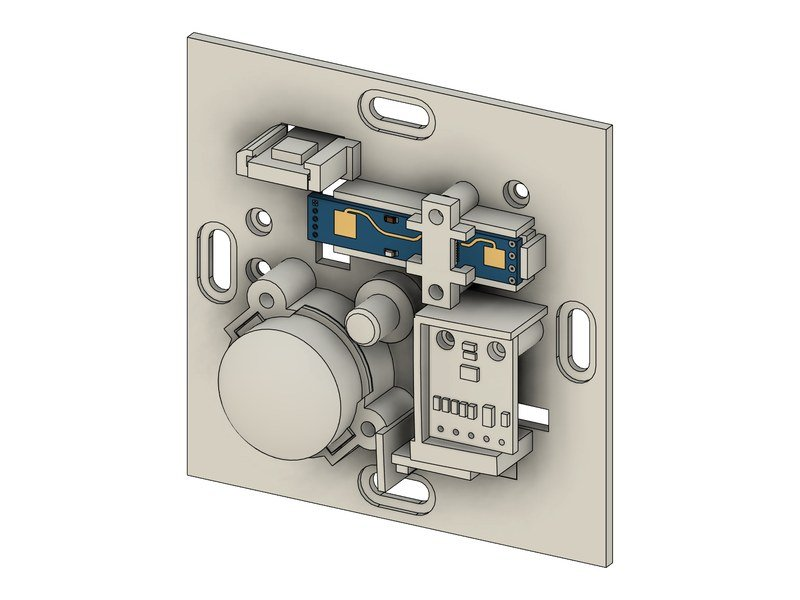
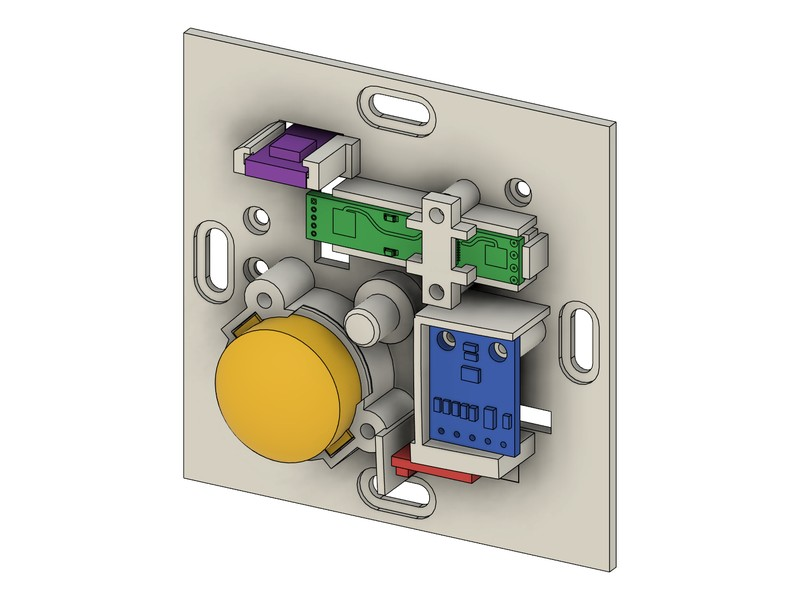
Flush-mount instructions: supports for both frames, cover plate bottom, capacitor polarity, colored sensors
Claude-Session: https://claude.ai/code/session_01AKeckaUjEpQSGav6KFAgd1

Changed region(s): [[0.2188, 0.03, 0.7812, 0.96], [0.5938, 0.9, 0.6875, 0.93]]

diff --git a/FlushMount/instructions/body.md b/FlushMount/instructions/body.md
@@ -53,11 +53,11 @@ You also need:
 | 8 Cover plate | <img src="images/Part8.jpg" width="180" alt="Part8"> <img src="images/Part8Back.jpg" width="180" alt="Part8Back"> | Front on the build plate | Printed together with part 9. The slotted sleeve on the back clamps onto the pin of part 1. |
 | 9 Light window |  | In the hole of part 8 | Transparent filament, multi-color print with part 8. |
 | 10 SHT plug | <img src="images/Part10.jpg" width="180" alt="Part10"> | Collar on the build plate | Closes the slot of the temperature sensor in the flange so no warm air rises from the wall box. Its left side is open for the wires. |
-| 11 Frame (optional) | <img src="images/Part11.jpg" width="180" alt="Part11"> | Front on the build plate | Only if you don’t use an original frame. future® linear needs supports. |
+| 11 Frame (optional) | <img src="images/Part11.jpg" width="180" alt="Part11"> | Front on the build plate | Only if you don’t use an original frame. Needs supports under the inner lip. |
 | 4 Light plug (optional) | <img src="images/Part4.jpg" width="180" alt="Part4"> | Collar on the build plate | Only with an original Busch-Jaeger cover plate, transparent. |
 | 5 Drilling template (optional) | <img src="images/Part5.jpg" width="180" alt="Part5"> | Flat | Only to drill an original Busch-Jaeger cover plate. |
 
-This is how the sensors sit on part 1 and the ESP and the power supply on part 2:
+This is how the sensors sit on part 1 (yellow PIR, green presence sensor, blue brightness sensor, red temperature sensor, purple LED) and the ESP and the power supply on part 2:
 
 | Part 1 with sensors | Part 2 with ESP | Part 2 with power supply (back) |
 | --- | --- | --- |
@@ -79,6 +79,7 @@ The frame and the cover plate are parametric in the Fusion 360 file on MakerWorl
 
 #### Using an original Busch-Jaeger cover plate
 
+1. Find the bottom of the cover plate: the two struts on its inside are at the bottom.
 1. Put the drilling template (part 5) over the cover plate, the notch marks the top.
 1. Pre-drill the two holes with Ø2.5 mm.
 1. Drill the PIR hole to **Ø21 mm** and the light hole to **Ø4.5 mm**.
@@ -137,7 +138,7 @@ Each cell is one hole, the holes of a row are connected. When you cut the proto 
 | 3V3 (red) | PIR VDD | 100 µF + | SHT41 VDD | BH1750 VCC | ESP 3V3 |
 | GND (black) | PIR GND | 100 µF − | SHT41 GND | BH1750 GND | Bridge from 5V board |
 
-The 100 nF capacitor goes directly across VDD and GND of the PIR, the 100 µF capacitor next to the PIR on the distribution board. PIR Out, LD2410B TX/RX and the LED data input go directly to the ESP.
+The 100 nF capacitor goes directly across VDD and GND of the PIR, the 100 µF capacitor next to the PIR on the distribution board. The 100 µF is an electrolytic capacitor and has a polarity: the stripe on its side marks the − leg (also the shorter one), which goes to GND. Soldered the wrong way round it can fail or even burst. The 100 nF ceramic capacitor has no polarity, both ways are fine. PIR Out, LD2410B TX/RX and the LED data input go directly to the ESP.
 
 #### Wire lengths
 
@@ -180,8 +181,8 @@ I built it from the back to the front: first the power supply on part 2, then th
 
     <img src="images/BH1750.jpg" height="250" alt="Brightness sensor with its wires">
 
-1. Solder the **other ends** to the **distribution boards** and the **ESP** according to the wiring diagram and the tables above, together with the 100 µF capacitor (+ to 3V3). Solder the three **PIR wires** only to the 3.3V board and GPIO7 for now, their other end stays free.
-1. **Prepare the PIR:** solder the 100 nF capacitor directly to VDD and GND of the PIR.
+1. Solder the **other ends** to the **distribution boards** and the **ESP** according to the wiring diagram and the tables above, together with the 100 µF capacitor (stripe/− to GND, + to 3V3). Solder the three **PIR wires** only to the 3.3V board and GPIO7 for now, their other end stays free.
+1. **Prepare the PIR:** solder the 100 nF capacitor directly to VDD and GND of the PIR (ceramic, either way round).
 1. Solder the 5V wires of the **power supply** to the 5V board.
 1. Use a **multimeter** to verify that solder joints of different colors do not bridge. Any short can damage components and may cause smoke or even fire.
 1. Slide the ESP (components facing front, USB-C to the right) and both distribution boards from the right into the chambers of part 2.

diff --git a/FlushMount/instructions/intro.md b/FlushMount/instructions/intro.md
@@ -44,4 +44,4 @@ Busch-Jaeger, Busch-balance and future are trademarks of Busch-Jaeger Elektro Gm
 - **Settings:** standard profile, 0.20 mm layer height, 0.4 mm nozzle
 - **Part 1 (front):** the pin in the middle that holds the cover plate is printed with 100 % infill using the modifier included in the print file, otherwise it can break off.
 - **Cover plate:** print the light window in transparent filament in the same print (multi-color).
-- **Frames:** print front side down. The future® linear frame needs supports from the build plate under its inner lip. If your printer prints outer dimensions too small, use X-Y contour compensation **only for the frames** — never for the cover plate, its clamping sleeve would get too tight and break.
+- **Frames:** print front side down. Both frames need supports from the build plate under their inner lip. If your printer prints outer dimensions too small, use X-Y contour compensation **only for the frames** — never for the cover plate, its clamping sleeve would get too tight and break.
